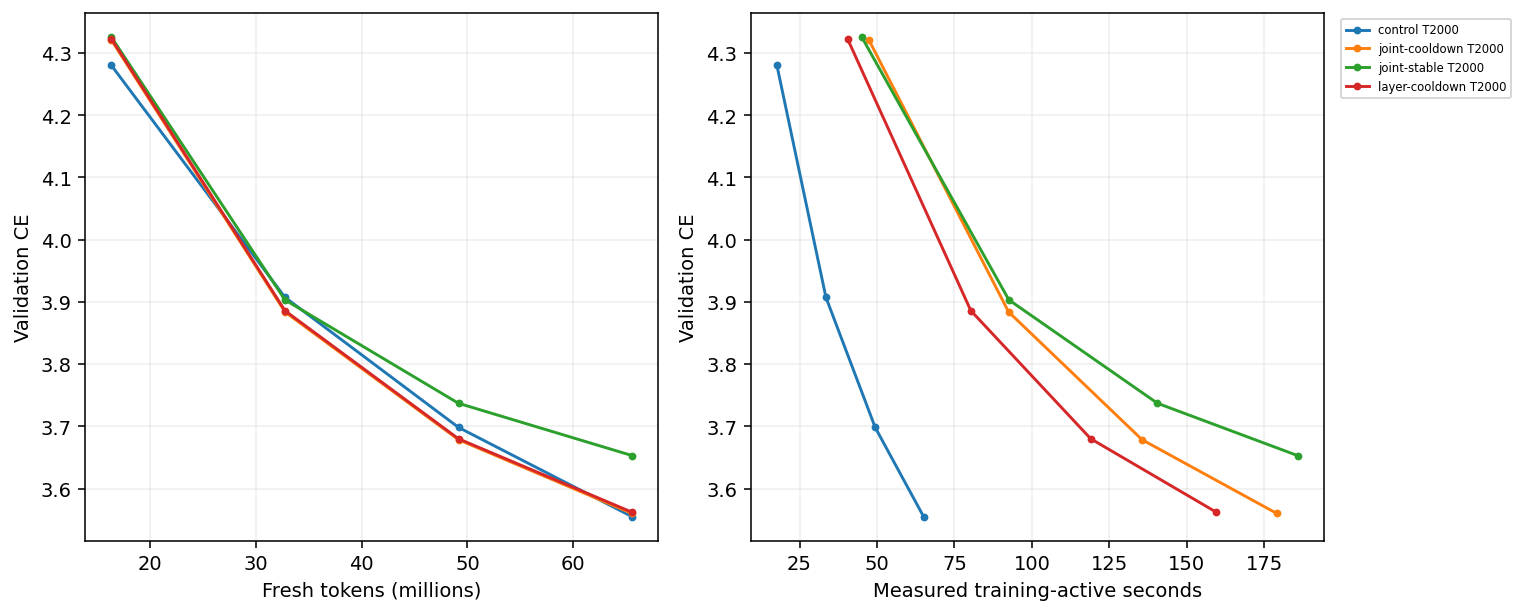
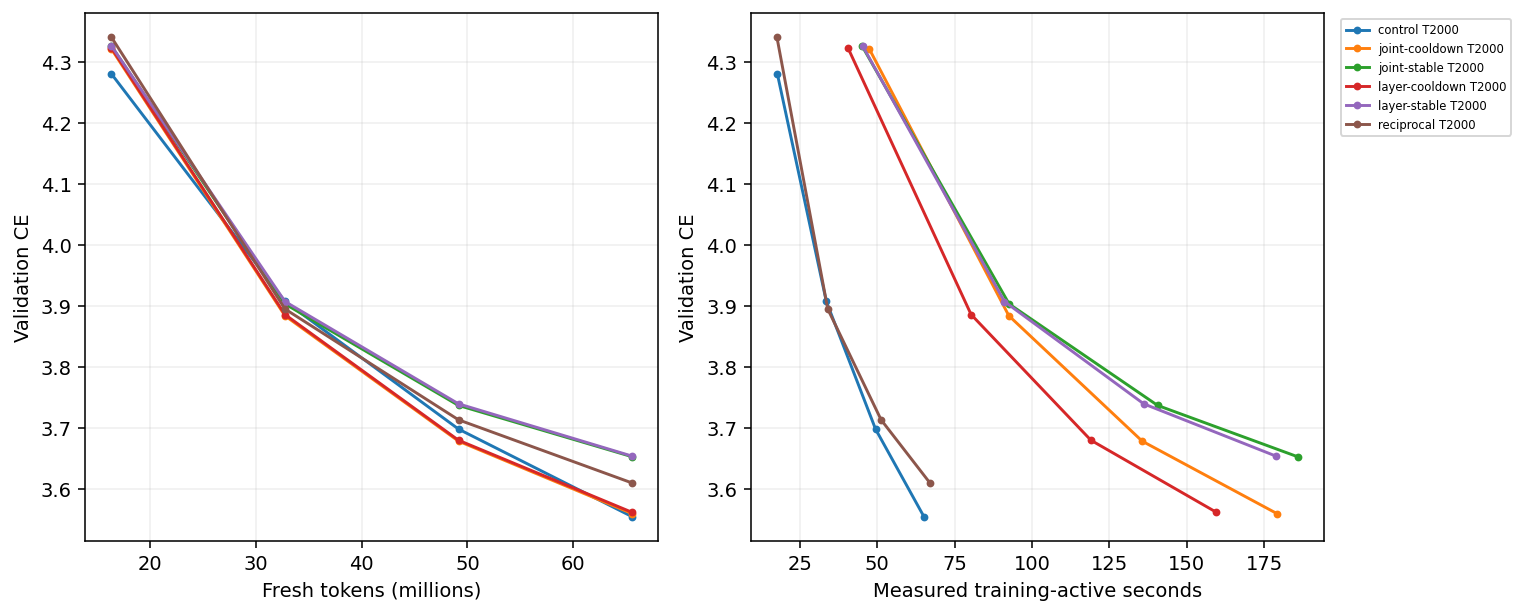
Update live Muon experiment results

diff --git a/research/unnormalized_muon/RESULTS.md b/research/unnormalized_muon/RESULTS.md
@@ -79,6 +79,8 @@ One B300 per job. CE is token cross-entropy (nats); lower is better. Rows with d
 | um-lens-main-layer-cooldown-cap0p005 | Clean GapWD layer uniform v2 c-in-Q armijo cap0.005/cooldown fixed_lambda=0.18375 WD:standard(0) | 2000 | 0 | 0.04 | 3.561886 | 1.079815 | — | 227.76 |
 | um-lens-main-layer-cooldown-cap0p02 | Clean GapWD layer uniform v2 c-in-Q armijo cap0.02/cooldown fixed_lambda=0.18375 WD:standard(0) | 2000 | 0 | 0.04 | 3.586478 | 1.087264 | — | 230.84 |
 | um-lens-main-layer-cooldown-cap0p08 | Clean GapWD layer uniform v2 c-in-Q armijo cap0.08/cooldown fixed_lambda=0.18375 WD:standard(0) | 2000 | 0 | 0.04 | 3.775003 | 1.144357 | — | 254.49 |
+| um-lens-main-reciprocal-lr0p02 | Clean Muon shifted reciprocal v2 c-in-Q fixed_lambda=0.18375 WD:standard(0) | 2000 | 0 | 0.02 | 3.609994 | 1.094386 | — | 123.51 |
+| um-lens-main-reciprocal-lr0p04 | Clean Muon shifted reciprocal v2 c-in-Q fixed_lambda=0.18375 WD:standard(0) | 2000 | 0 | 0.04 | 3.610242 | 1.094431 | — | 116.29 |
 | um-screen-00-0-native-lr0p005 | Native cooldown | 2000 | 0 | 0.005 | 3.734536 | 1.132046 | — | 145.49 |
 | um-screen-00-1-scaled-lr0p0002 | Unnormalized cooldown | 2000 | 0 | 0.0002 | 4.818060 | 1.460343 | — | 153.42 |
 | um-screen-00-2-constant-lr0p0002 | Unnormalized constant | 2000 | 0 | 0.0002 | 4.581043 | 1.388601 | — | 151.98 |
@@ -118,7 +120,7 @@ One B300 per job. CE is token cross-entropy (nats); lower is better. Rows with d
 
 Review of um-fw-diagnostic-001: Compiled training f0 compared against functional candidate losses; vanishing-step mismatch2-4e-5 exceeded tolerance, leading to curvature1e186 and45 skipped steps. Replaced by paired functional reference and candidates; retain all645 measured forwards and GPUcost.
 
-Conservative charged/reserved total: 9.6157 / 30 B300 GPU-hours. Includes prior smoke/failed attempts and current maximum-duration reservations. Six-slot central queue; one B300 per run.
+Conservative charged/reserved total: 9.4340 / 30 B300 GPU-hours. Includes prior smoke/failed attempts and current maximum-duration reservations. Six-slot central queue; one B300 per run.
 
 CLEAN geometry disables row equilibration and NorMuon. Original clean runs use zero matrix decay; new WD runs explicitly label standard or cautious decay and their CLI coefficient. Same five Polar Express steps and Frobenius correction; scale by the per-matrix nonnegative FP32 inner product of the native Nesterov input with the NS/Frobenius direction. Shape scaling occurs once outside the scalar. Legacy rows retain production extras and must be compared separately. Constant schedule changes only matrix LR; auxiliary schedules and momentum remain matched.
 

diff --git a/research/unnormalized_muon/FW_LENS_RESULTS.md b/research/unnormalized_muon/FW_LENS_RESULTS.md
@@ -29,6 +29,9 @@ Token-based schedule curves are descriptive. Independently scheduled equal-time 
 | um-lens-main-layer-cooldown-cap0p005 | layer-cooldown | 2000 updates | 0 | 3.561886 | — | 159.589 | 4000 | 32.431 | 227.76 |
 | um-lens-main-layer-cooldown-cap0p02 | layer-cooldown | 2000 updates | 0 | 3.586478 | — | 162.107 | 4006 | 32.671 | 230.84 |
 | um-lens-main-layer-cooldown-cap0p08 | layer-cooldown | 2000 updates | 0 | 3.775003 | — | 161.803 | 4065 | 40.630 | 254.49 |
+| um-lens-main-layer-stable-cap0p005 | layer-stable | 2000 updates | 0 | 3.653949 | — | 178.828 | 4000 | 33.361 | 251.43 |
+| um-lens-main-reciprocal-lr0p02 | reciprocal | 2000 updates | 0 | 3.609994 | — | 67.004 | 0 | 26.860 | 123.51 |
+| um-lens-main-reciprocal-lr0p04 | reciprocal | 2000 updates | 0 | 3.610242 | — | 65.990 | 0 | 23.884 | 116.29 |
 
 ## Adaptive diagnostics and contraction
 
@@ -51,5 +54,6 @@ Contraction is the actual coefficient product_t(1-lambda*eta_l,t), represented i
 | um-lens-main-layer-cooldown-cap0p005 | 2000/2000 | 0 | 0.0037906 | 0.00069652 | 1e-16 | 1 | -1.253 to -1.225 | 0.330668 |
 | um-lens-main-layer-cooldown-cap0p02 | 2000/2000 | 0 | 0.015118 | 0.002778 | 1e-16 | 1 | -5.01 to -4.851 | 0.420678 |
 | um-lens-main-layer-cooldown-cap0p08 | 2000/2000 | 0 | 0.058428 | 0.010736 | 1e-16 | 1 | -19.79 to -18.76 | 0.404548 |
+| um-lens-main-layer-stable-cap0p005 | 2000/2000 | 0 | 0.005 | 0.00091875 | 1e-16 | 1 | -1.82 to -1.8 | 0.305951 |
 
 Curvature values in Armijo variants parameterize proposals; their acceptance is NOT a certificate of the quadratic upper model. Final spectral ratios are lambda*||W_l||op/c_l; native approximate NS output is not certified to have unit spectral norm. Initial/final iterate feasibility alone does not certify oracle accuracy. Cold two-second clock checks intentionally permit one-update overshoot; do not use them as quality endpoints.

diff --git a/research/unnormalized_muon/DETAILED_EVAL.md b/research/unnormalized_muon/DETAILED_EVAL.md
@@ -317,3 +317,11 @@ um-lens-main-layer-cooldown-cap0p08: accepted 2000/2000; skipped nonpositive blo
 
 Timing seconds: direction=55.186, reference=14.371, candidates=14.569, auxiliary=1.747.
 
+| um-lens-main-layer-stable-cap0p005 | layer native | 0.1837499 | 2000 | 3.653949 | 4000 | 251.43 |
+
+um-lens-main-layer-stable-cap0p005: accepted 2000/2000; skipped nonpositive blocks 223; median actual eta 0.005; median gamma 0.000918749; median L 1e-16; median trials 1; max measured spectral ratio lambda*||W||op=0.305951. Native approximate NS can violate the ideal unit-oracle premise; this is recorded, not hidden.
+
+Timing seconds: direction=71.458, reference=14.916, candidates=14.601, auxiliary=1.790.
+
+| um-lens-main-reciprocal-lr0p02 | fw_reciprocal native | 0.1837499 | 2000 | 3.609994 | 0 | 123.51 |
+| um-lens-main-reciprocal-lr0p04 | fw_reciprocal native | 0.1837499 | 2000 | 3.610242 | 0 | 116.29 |
